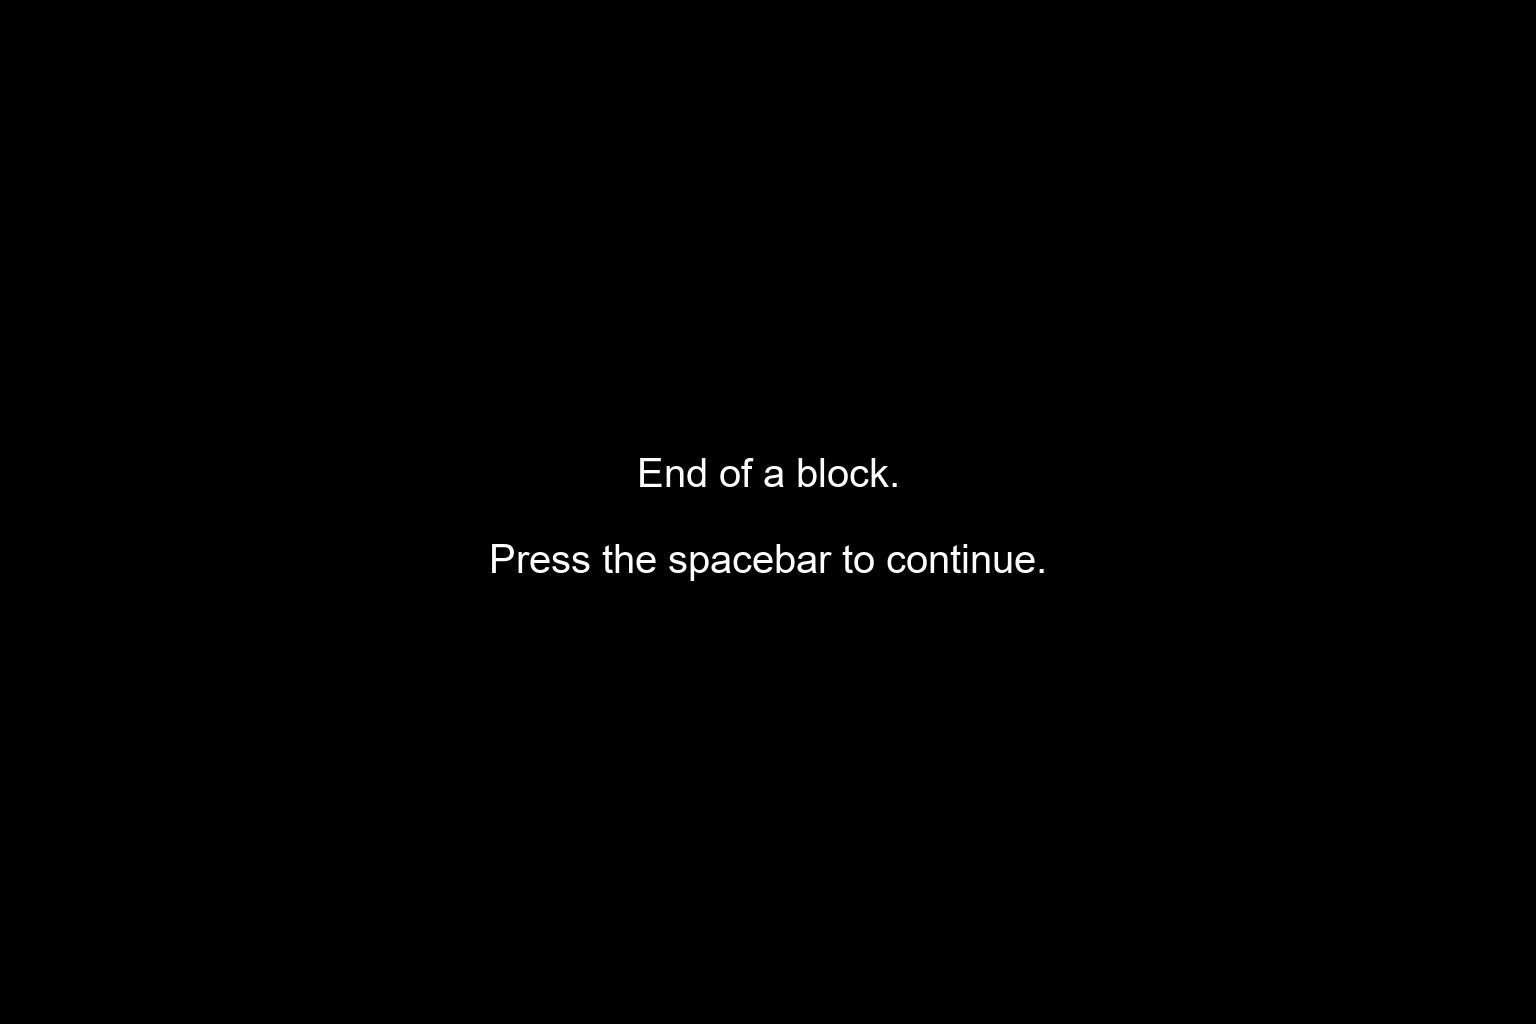
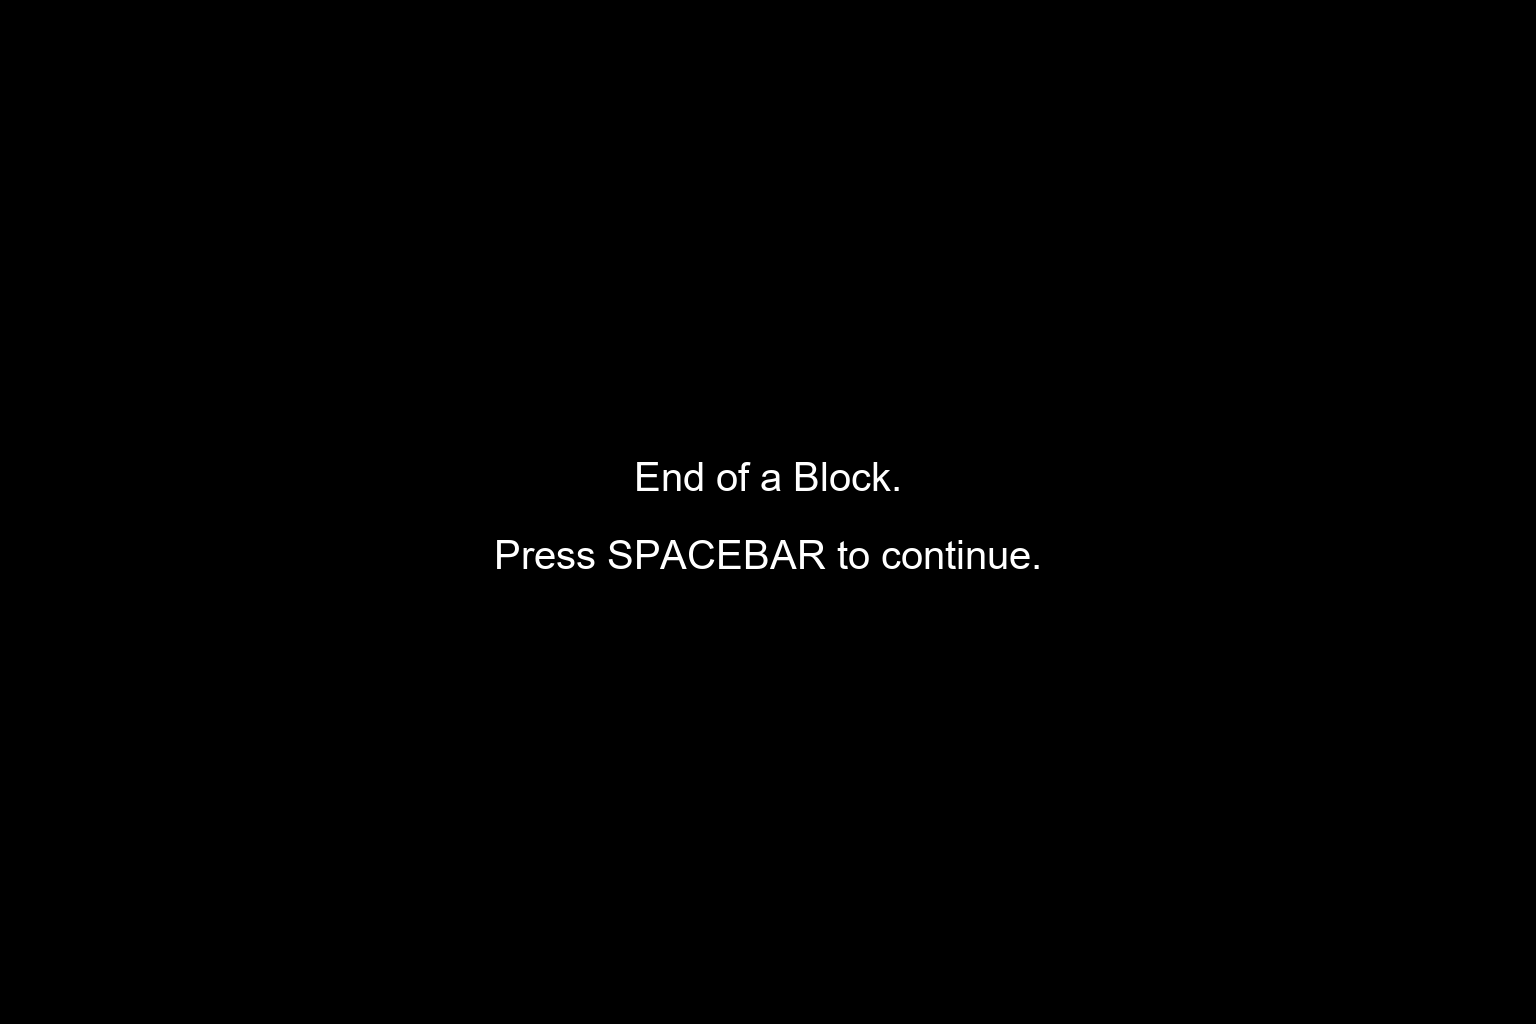
Minor Instructions edits

Changed region(s): [[0.4062, 0.4375, 0.5938, 0.5], [0.3125, 0.5312, 0.6875, 0.5625]]

diff --git a/ov_experiment/scenarios/tools/stimulus_generator.py b/ov_experiment/scenarios/tools/stimulus_generator.py
@@ -69,7 +69,7 @@ def makeInstructions(dirName, **kwargs):
                 "Hello!",
                 "Welcome to the experiment!",
                 "\n",
-                "Please press the SPACEBAR to ."
+                "Please press the SPACEBAR to proceed."
             ],
             [
                 "Here you are asked to mentally count how many blue squares you see.",
